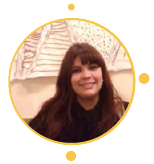
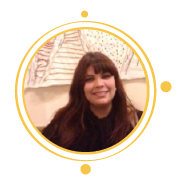
ultimas ediciones de estilos

Changed region(s): [[0.0519, 0.0, 0.987, 1.0], [0.4416, 0.6402, 0.4675, 0.6707]]

diff --git a/index.html b/index.html
@@ -17,7 +17,7 @@
           <img src="foto.png" alt="Imagen de perfil" />
         </div>
         <div class="informacion">
-          <p style="color: #f7c749; font-size: 22px">
+          <p style="color: #f7c749; font-size: 18px">
             <b>Jimena Anabel Choke</b>
           </p>
           <p>
@@ -85,5 +85,6 @@
         </form>
       </div>
     </div>
+    <script src="script.js"></script>
   </body>
 </html>

diff --git a/style.css b/style.css
@@ -16,9 +16,9 @@ body {
   }
   
   .imagen-perfil img {
-    width: 125px;
+    width: 135px;
     object-fit: cover;
-    margin-left: 20px;
+    margin-left: 15px;
     padding-top: 15px;
   }
   
